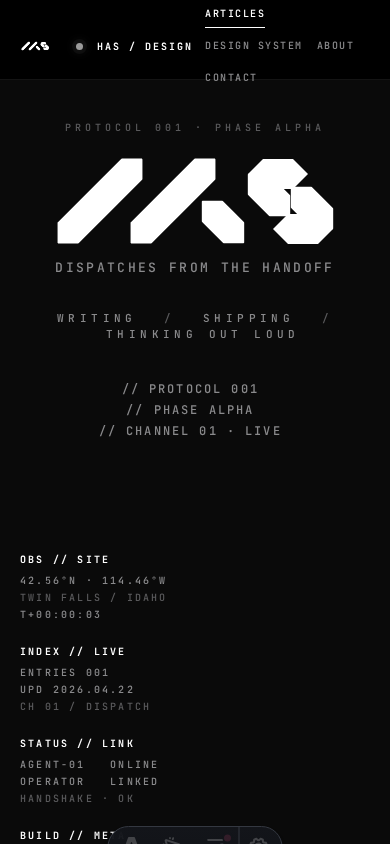
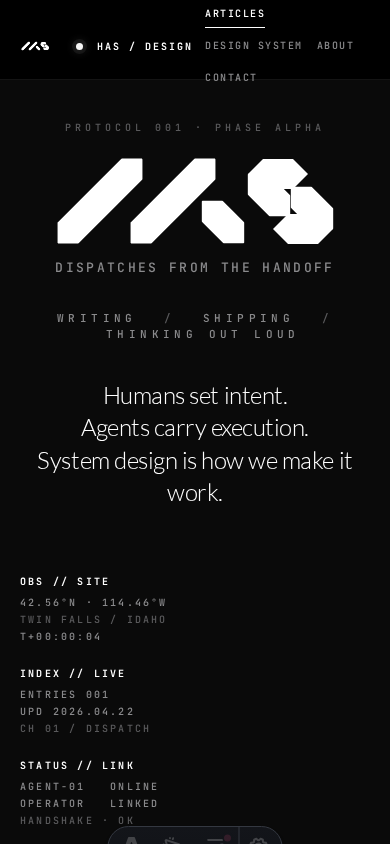
fixup(motion): ILI-730 revision — 4 locked story lines, Lato, static final cursor
Chad revised the spec on the open ticket:

- Hero body reveal is exactly 4 sentences, in order, no `//` prefix
  lines. Mono protocol stamps belong in the rails (ILI-725), not in
  the hero body — the reveal is the human voice, not the chrome.
- Typography is Lato 300 clamp(24px, 3vw, 36px), letter-spacing
  -0.02em, color white. No mono variants.
- Timing is 320ms reveal + 700ms hold per line (1020ms cadence),
  starting at t=0 off the page load. Final line completes at 3380ms.
- Cursor is a single span nested inside the final line, not a
  per-line ::after with JS-driven `.is-typing` handoff. It appears
  at 3380ms via `cursor-appear 0s 3380ms forwards` and blinks there
  permanently via `blink 1s 3380ms steps(2) infinite`.

Reverts — `.hero-sub`, `.hero-meta`, `.hero-logo`, and the four
`.hud-corner` positions go back to the ILI-717 staggered-rise
timings. ILI-717 owns those elements; last commit's retiming was
out of scope for this ticket and is pulled back.

- src/pages/index.astro
  - .hero-story replaced: 4 .type-line spans with the locked copy,
    cursor nested inside line 3
  - removed the typeLines / .is-typing scheduler from the module
    script; cursor is pure CSS now

- src/styles/homepage.css
  - .protocol-chip / .hud-corner / .hero-logo / .hero-sub /
    .hero-meta restored to ILI-717 rise 900ms cubic-bezier timings
    (420/480/540/600ms corner stagger; 160/220/320ms chip/sub/meta)
  - .type-line rewritten for Lato 300 + clamp sizing + 1020ms cadence
[…]

diff --git a/tests/ili-730-verify.spec.ts b/tests/ili-730-verify.spec.ts
@@ -6,78 +6,116 @@ const OUT = path.resolve('verification-screenshots/ili-730');
 fs.mkdirSync(OUT, { recursive: true });
 
 test.describe('ILI-730 — hero typography animation', () => {
-  test('animation sequence snapshots at t=500/1500/3000', async ({ page }) => {
+  test('story reveal — 4 lines, final cursor lands at ~3380ms', async ({ page }) => {
     await page.setViewportSize({ width: 1440, height: 900 });
     await page.goto('/', { waitUntil: 'load' });
     await page.waitForSelector('.hero-story');
 
-    await page.waitForTimeout(500);
-    await page.screenshot({ path: path.join(OUT, 'hero-t500.png'), fullPage: false });
-
     await page.waitForTimeout(1000);
-    await page.screenshot({ path: path.join(OUT, 'hero-t1500.png'), fullPage: false });
+    await page.screenshot({ path: path.join(OUT, 'hero-t1000.png'), fullPage: false });
 
     await page.waitForTimeout(1500);
-    await page.screenshot({ path: path.join(OUT, 'hero-t3000.png'), fullPage: false });
+    await page.screenshot({ path: path.join(OUT, 'hero-t2500.png'), fullPage: false });
 
-    // Acceptance — after 3s every story line should be fully revealed.
-    // Computed inset collapses to `inset(0px)` when all sides equal zero.
-    const revealed = await page.$$eval('.type-line', (els) =>
+    // The last line's reveal completes at 3380ms of animation time; dev-mode
+    // paint lag can push that a bit past our cumulative waits, so poll until
+    // the clip-path reports fully revealed before the end-state screenshot.
+    await page.waitForFunction(
+      () => {
+        const last = document.querySelector('.type-line:last-of-type') as HTMLElement | null;
+        if (!last) return false;
+        const cp = getComputedStyle(last).clipPath;
+        return /^inset\((0(px|%)?\s*){1,4}\)$/.test(cp);
+      },
+      undefined,
+      { timeout: 4000 },
+    );
+
+    // Give the cursor a moment to become visible (opacity jump at 3380ms)
+    await page.waitForTimeout(200);
+    await page.screenshot({ path: path.join(OUT, 'hero-end-state.png'), fullPage: false });
+
+    // Exactly 4 story lines exist
+    const lineCount = await page.$$eval('.type-line', (els) => els.length);
+    expect(lineCount).toBe(4);
+
+    // Copy is exact — no `//` prefixes, in locked order
+    const lines = await page.$$eval('.type-line', (els) =>
+      els.map((el) => (el.textContent || '').replace(/\s+/g, ' ').trim()),
+    );
+    expect(lines[0]).toBe('Humans set intent.');
+    expect(lines[1]).toBe('Agents carry execution.');
+    expect(lines[2]).toBe('System design is how we make it work.');
+    // Line 3 text includes the empty cursor span; its textContent drops that
+    expect(lines[3]).toBe('These are the field notes.');
+
+    // All 4 lines fully revealed by 4s
+    const clips = await page.$$eval('.type-line', (els) =>
       els.map((el) => getComputedStyle(el).clipPath),
     );
-    for (const clip of revealed) {
-      // Computed `inset(0 0 0 0)` may serialize as `inset(0px)`, `inset(0px 0px 0px 0px)`,
-      // or — when reached via keyframe tween from `100%` — `inset(0px 0% 0px 0px)`. All
-      // of these mean fully revealed.
+    for (const clip of clips) {
       expect(clip).toMatch(/^inset\((0(px|%)?\s*){1,4}\)$/);
     }
 
-    // Cursor should be on the last line
-    const typingLines = await page.$$eval('.type-line.is-typing', (els) => els.length);
-    expect(typingLines).toBe(1);
-    const lastIsTyping = await page.$eval('.type-line:last-of-type', (el) =>
-      el.classList.contains('is-typing'),
-    );
-    expect(lastIsTyping).toBe(true);
+    // Cursor is a child of the final line (not jumping between lines)
+    const cursorParent = await page.$eval('.cursor', (el) => {
+      const line = el.closest('.type-line') as HTMLElement | null;
+      const all = Array.from(document.querySelectorAll('.type-line'));
+      return line ? all.indexOf(line) : -1;
+    });
+    expect(cursorParent).toBe(3);
 
-    // T+ counter should have ticked past 00:00:00
+    // Exactly one cursor
+    expect(await page.$$eval('.cursor', (els) => els.length)).toBe(1);
+
+    // Cursor should be visible by now (appears at 3380ms)
+    const cursorOpacity = await page.$eval('.cursor', (el) => getComputedStyle(el).opacity);
+    expect(Number(cursorOpacity)).toBeGreaterThan(0.3);
+  });
+
+  test('telemetry — T+ ticks, HASH resolves, ENTRIES matches target', async ({ page }) => {
+    await page.setViewportSize({ width: 1440, height: 900 });
+    await page.goto('/', { waitUntil: 'load' });
+    await page.waitForTimeout(2000);
+
     const tText = (await page.textContent('#hud-t')) || '';
     expect(tText).toMatch(/^T\+\d{2}:\d{2}:\d{2}$/);
     expect(tText).not.toBe('T+00:00:00');
 
-    // HASH should have resolved to the final value
     const hashText = (await page.textContent('#hud-hash')) || '';
     expect(hashText).toBe('9F2A-8C1D');
 
-    // ENTRIES should match data-target
     const entriesText = (await page.textContent('#hud-entries')) || '';
     const entriesTarget = await page.getAttribute('#hud-entries', 'data-target');
     expect(entriesText.replace(/^0+/, '') || '0').toBe(String(Number(entriesTarget)));
   });
 
-  test('reduced motion — end states visible, no cursor', async ({ browser }) => {
+  test('reduced motion — 4 lines visible, cursor static, T+ frozen', async ({ browser }) => {
     const context = await browser.newContext({ reducedMotion: 'reduce' });
     const page = await context.newPage();
     await page.setViewportSize({ width: 1440, height: 900 });
-    await page.goto('/', { waitUntil: 'domcontentloaded' });
-    // Small wait to let any layout settle
-    await page.waitForTimeout(120);
+    await page.goto('/', { waitUntil: 'load' });
+    await page.waitForTimeout(150);
     await page.screenshot({ path: path.join(OUT, 'hero-reduced-motion.png'), fullPage: false });
 
-    const revealed = await page.$$eval('.type-line', (els) =>
+    // All 4 lines at end state
+    const clips = await page.$$eval('.type-line', (els) =>
       els.map((el) => getComputedStyle(el).clipPath),
     );
-    for (const clip of revealed) {
-      // Computed `inset(0 0 0 0)` may serialize as `inset(0px)`, `inset(0px 0px 0px 0px)`,
-      // or — when reached via keyframe tween from `100%` — `inset(0px 0% 0px 0px)`. All
-      // of these mean fully revealed.
+    expect(clips.length).toBe(4);
+    for (const clip of clips) {
       expect(clip).toMatch(/^inset\((0(px|%)?\s*){1,4}\)$/);
     }
 
-    const cursorShown = await page.$$eval('.type-line.is-typing', (els) => els.length);
-    expect(cursorShown).toBe(0);
+    // Cursor visible but NOT animated (opacity 1, no blink keyframe running)
+    const cursor = await page.$eval('.cursor', (el) => {
+      const cs = getComputedStyle(el);
+      return { opacity: cs.opacity, animationName: cs.animationName };
+    });
+    expect(Number(cursor.opacity)).toBe(1);
+    expect(cursor.animationName).toBe('none');
 
-    // T+ counter should NOT tick under reduced motion
+    // T+ should not tick
     const t1 = await page.textContent('#hud-t');
     await page.waitForTimeout(1200);
     const t2 = await page.textContent('#hud-t');
@@ -88,8 +126,9 @@ test.describe('ILI-730 — hero typography animation', () => {
 
   test('logo hover shifts bars', async ({ page }) => {
     await page.setViewportSize({ width: 1440, height: 900 });
-    await page.goto('/', { waitUntil: 'domcontentloaded' });
-    await page.waitForTimeout(3200);
+    await page.goto('/', { waitUntil: 'load' });
+    await page.waitForTimeout(4000);
+
     const logo = page.locator('.hero-logo');
     const before = await page.$$eval('.hero-logo .bar', (els) =>
       els.map((el) => getComputedStyle(el).transform),

diff --git a/src/styles/homepage.css b/src/styles/homepage.css
@@ -98,7 +98,7 @@ button { font: inherit; color: inherit; background: none; border: none; cursor: 
   text-transform: uppercase;
   color: var(--dim);
   white-space: nowrap;
-  animation: rise var(--dur-slow) var(--ease-out) both;
+  animation: rise 900ms cubic-bezier(.2,.8,.2,1) both;
   animation-delay: 160ms;
 }
 
@@ -111,14 +111,14 @@ button { font: inherit; color: inherit; background: none; border: none; cursor: 
   text-transform: uppercase;
   color: var(--mid);
   line-height: 1.7;
-  animation: fade var(--dur-fast) var(--ease-out) both;
+  animation: rise 900ms cubic-bezier(.2,.8,.2,1) both;
 }
 .hud-corner strong { color: var(--white); font-weight: 600; display: block; margin-bottom: 4px; }
 .hud-corner .dim { color: var(--dim); }
-.hud-corner.tl { top: 40px; left: 72px; }
-.hud-corner.tr { top: 40px; right: 72px; text-align: right; }
-.hud-corner.bl { bottom: 40px; left: 72px; }
-.hud-corner.br { bottom: 40px; right: 72px; text-align: right; }
+.hud-corner.tl { top: 40px; left: 72px; animation-delay: 420ms; }
+.hud-corner.tr { top: 40px; right: 72px; text-align: right; animation-delay: 480ms; }
+.hud-corner.bl { bottom: 40px; left: 72px; animation-delay: 540ms; }
+.hud-corner.br { bottom: 40px; right: 72px; text-align: right; animation-delay: 600ms; }
 
 .hud-corner::before {
   content: "";
@@ -143,8 +143,7 @@ button { font: inherit; color: inherit; background: none; border: none; cursor: 
   width: 275.44px;
   height: 84.86px;
   margin: 0 auto 14.4px;
-  animation: rise var(--dur-slow) var(--ease-out) both;
-  animation-delay: 200ms;
+  animation: rise 900ms cubic-bezier(.2,.8,.2,1) both;
 }
 .hero-logo .logo-stage {
   position: absolute;
@@ -185,9 +184,8 @@ button { font: inherit; color: inherit; background: none; border: none; cursor: 
   text-align: center;
   white-space: nowrap;
   color: var(--mid);
-  clip-path: inset(0 100% 0 0);
-  animation: reveal var(--dur-base) var(--ease-out) forwards;
-  animation-delay: 600ms;
+  animation: rise 900ms cubic-bezier(.2,.8,.2,1) both;
+  animation-delay: 220ms;
 }
 
 .hero-meta {
@@ -199,87 +197,64 @@ button { font: inherit; color: inherit; background: none; border: none; cursor: 
   text-transform: uppercase;
   color: var(--mid);
   text-align: center;
-  animation: rise var(--dur-slow) var(--ease-out) both;
-  animation-delay: 800ms;
+  animation: rise 900ms cubic-bezier(.2,.8,.2,1) both;
+  animation-delay: 320ms;
 }
 .hero-meta span + span { margin-left: 16px; }
 .hero-meta .slash { color: var(--dim); }
 
-/* ───────────── HERO STORY (ILI-730 · ILI-729 lines B) ─────────────
-   Six lines revealing via clip-path in three typographic movements:
-   mono-caps protocol stamps → mono principle body → Lato thesis.
-   A blinking cursor (::after + .is-typing) rides the currently-
-   revealing line and lands on line 6.
-   ──────────────────────────────────────────────────────────────── */
+/* ───────────── HERO STORY (ILI-730) ─────────────
+   Four locked lines, Lato 300 — the story is the human voice.
+   Each line reveals over var(--dur-base) (320ms) then holds 700ms
+   before the next begins (1020ms cadence, starting at t=0). The
+   cursor is nested inside the final line; it lands and blinks
+   once line 3 has finished revealing at 3380ms. No per-line
+   cursor handoff — chrome/rails own the mono voice upstream.
+   ──────────────────────────────────────────────── */
 .hero-story {
   width: 100%;
   margin-top: 2.25rem;
   text-align: center;
-  color: var(--mid);
-  line-height: 1.75;
 }
 .type-line {
   display: block;
-  font-family: var(--font-mono);
-  font-size: 12px;
-  font-weight: 500;
-  letter-spacing: 0.18em;
-  text-transform: uppercase;
-  color: var(--mid);
-  clip-path: inset(0 100% 0 0);
-  animation: reveal var(--dur-base) var(--ease-out) forwards;
-  animation-delay: calc(1000ms + var(--line) * 180ms);
-}
-.type-line.sentence {
-  letter-spacing: 0.02em;
-  text-transform: none;
-  color: var(--light);
-}
-.type-line.thesis {
   font-family: var(--font-sans);
   font-weight: 300;
-  font-size: 15px;
-  letter-spacing: -0.005em;
-  text-transform: none;
+  font-size: clamp(24px, 3vw, 36px);
+  line-height: 1.35;
+  letter-spacing: -0.02em;
   color: var(--white);
-  margin-top: 0.55rem;
+  clip-path: inset(0 100% 0 0);
+  animation: reveal var(--dur-base) var(--ease-out) forwards;
+  animation-delay: calc(var(--line) * 1020ms);
 }
-.type-line::after {
-  content: '';
+.cursor {
   display: inline-block;
-  width: 0.55em;
+  width: 0.5em;
   height: 0.9em;
   background: currentColor;
-  vertical-align: -0.1em;
-  margin-left: 0.25em;
+  vertical-align: -0.08em;
+  margin-left: 0.2em;
   opacity: 0;
+  animation:
+    cursor-appear 0s 3380ms forwards,
+    blink 1s 3380ms steps(2) infinite;
 }
-.type-line.is-typing::after {
-  opacity: 1;
-  animation: blink 0.9s step-end infinite;
-}
+@keyframes cursor-appear { to { opacity: 1; } }
 
-/* Reduced motion — end states visible immediately, no cursor, no reveal.
-   The global guard (motion.css) nulls animation-duration but preserves
-   animation-delay, which would otherwise leave rise-animated hero pieces
-   invisible until their scheduled moment. Disable the hero animations
-   entirely so each element paints at its authored end state. */
+/* Reduced motion — all four sentences painted instantly at their
+   end state, cursor visible but static (no blink). The global
+   guard (motion.css) nulls animation-duration but preserves
+   animation-delay, which would otherwise keep the cursor and the
+   later story lines invisible during their delay window. */
 @media (prefers-reduced-motion: reduce) {
-  .protocol-chip,
-  .hero-logo,
-  .hero-sub,
-  .hero-meta,
-  .hud-corner,
   .type-line {
     animation: none !important;
-  }
-  .hero-sub,
-  .type-line {
     clip-path: inset(0 0 0 0);
   }
-  .type-line::after,
-  .type-line.is-typing::after {
-    display: none;
+  .cursor {
+    animation: none !important;
+    opacity: 1;
   }
 }
 

diff --git a/tests/ili-730-mobile.spec.ts b/tests/ili-730-mobile.spec.ts
@@ -5,17 +5,19 @@ import path from 'node:path';
 const OUT = path.resolve('verification-screenshots/ili-730');
 fs.mkdirSync(OUT, { recursive: true });
 
-test('ILI-730 — mobile hero renders full story on one line per row', async ({ page }) => {
+test('ILI-730 — mobile hero renders 4 story lines + cursor', async ({ page }) => {
   await page.setViewportSize({ width: 390, height: 844 });
   await page.goto('/', { waitUntil: 'load' });
-  await page.waitForTimeout(3200);
+  await page.waitForTimeout(4000);
 
   await page.screenshot({ path: path.join(OUT, 'hero-mobile-view.png'), fullPage: false });
 
-  // Each story line should fit on a single visual row — no wrap.
-  const heights = await page.$$eval('.type-line', (els) => els.map((el) => el.getBoundingClientRect().height));
-  const lineHeight = Math.min(...heights);
-  for (const h of heights) {
-    expect(h).toBeLessThan(lineHeight * 1.5);
-  }
+  expect(await page.$$eval('.type-line', (els) => els.length)).toBe(4);
+  expect(await page.$$eval('.cursor', (els) => els.length)).toBe(1);
+
+  // Page must not scroll sideways at this viewport
+  const overflow = await page.evaluate(
+    () => document.documentElement.scrollWidth - document.documentElement.clientWidth,
+  );
+  expect(overflow).toBeLessThanOrEqual(0);
 });
